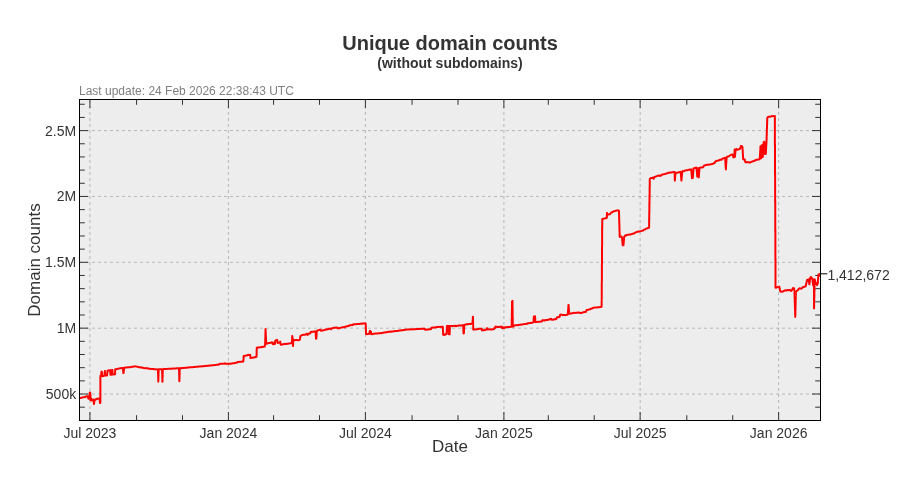
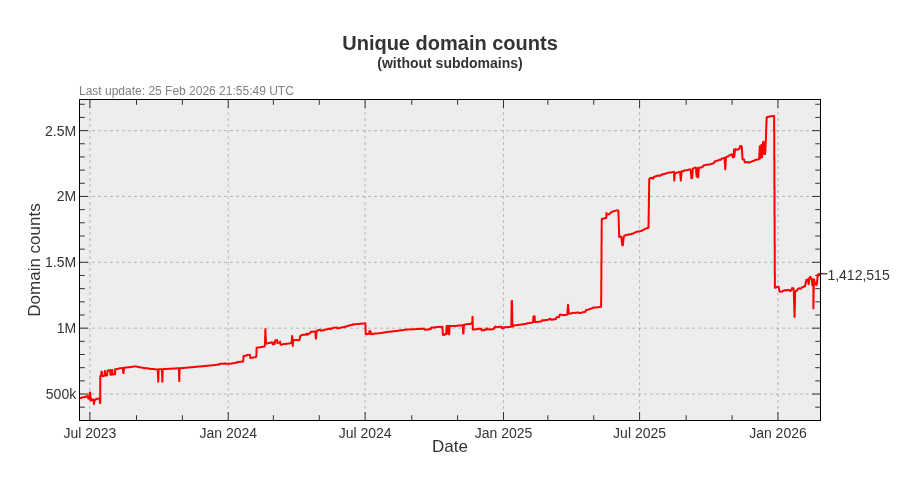
Update pages

diff --git a/README.md b/README.md
@@ -3,22 +3,22 @@ A blocklist file for blocking ads, trackers and malware domains.
 
[1 lines of base64/hex data omitted]
 
-- Unique domains: 2,067,896
-- Without subdomains: 1,412,672
-- Last update: 24 Feb 2026 22:38:43 UTC
-- Version: 2026.02.24.03
+- Unique domains: 2,067,596
+- Without subdomains: 1,412,515
+- Last update: 25 Feb 2026 21:55:49 UTC
+- Version: 2026.02.25.01
 
 
 ### Downloads:
 
 | Format             | Domain count      | Download Link |
 |:------------------ | -----------------:|:-------------:|
-| *Adblock Plus*     | 1,412,672 | [Download](https://dl.cenk.app/bad-hosts/bad-hosts-abp) |
-| *Wildcard domains* | 1,412,672 | [Download](https://dl.cenk.app/bad-hosts/bad-hosts-wildcard) |
-| *dnsmasq*          | 1,412,672 | [Download](https://dl.cenk.app/bad-hosts/bad-hosts-dnsmasq) |
-| *hosts*            | 2,067,896 | [Download](https://dl.cenk.app/bad-hosts/hosts) |
-| *hosts (ipv6)*     | 2,067,896 | [Download](https://dl.cenk.app/bad-hosts/hosts-ipv6) |
-| *Plain domains*    | 2,067,896 | [Download](https://dl.cenk.app/bad-hosts/bad-hosts-domains) |
+| *Adblock Plus*     | 1,412,515 | [Download](https://dl.cenk.app/bad-hosts/bad-hosts-abp) |
+| *Wildcard domains* | 1,412,515 | [Download](https://dl.cenk.app/bad-hosts/bad-hosts-wildcard) |
+| *dnsmasq*          | 1,412,515 | [Download](https://dl.cenk.app/bad-hosts/bad-hosts-dnsmasq) |
+| *hosts*            | 2,067,596 | [Download](https://dl.cenk.app/bad-hosts/hosts) |
+| *hosts (ipv6)*     | 2,067,596 | [Download](https://dl.cenk.app/bad-hosts/hosts-ipv6) |
+| *Plain domains*    | 2,067,596 | [Download](https://dl.cenk.app/bad-hosts/bad-hosts-domains) |
 
 ### Domain count history
 #### With subdomains
